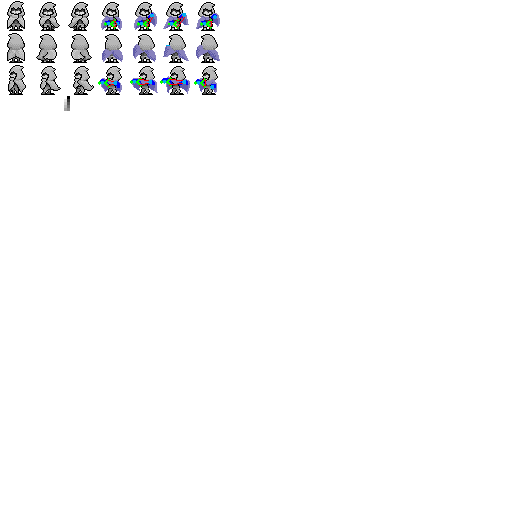
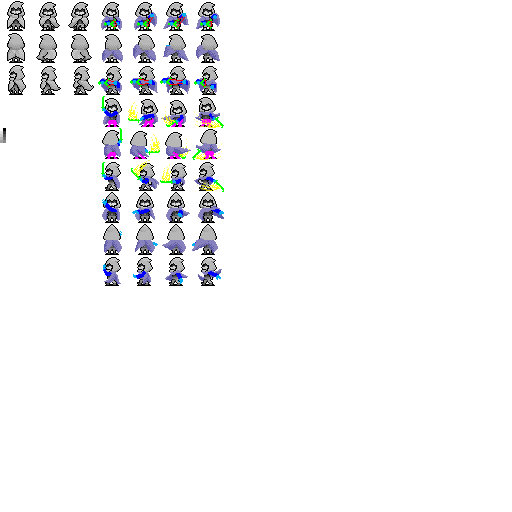
added sword animation

Changed region(s): [[0.1875, 0.1875, 0.4375, 0.5625], [0.125, 0.1875, 0.1562, 0.2188], [0.0, 0.25, 0.0312, 0.2812]]

diff --git a/js/entities/swordswing.js b/js/entities/swordswing.js
@@ -4,7 +4,7 @@ game.SwordSwing = me.Entity.extend({
 		var tipY = player.pos.y + (Math.sin(player.angle)*SWORD_DISTANCE);
 
 		var settings = {};
-		settings.image = 'slingshotstone';
+		//settings.image = 'slingshotstone';
 		settings.width = 5;
 		settings.height = 5;
 		settings.collisionType = 'PROJECTILE_OBJECT';
@@ -20,8 +20,14 @@ game.SwordSwing = me.Entity.extend({
 		this.body.addShape(new me.Rect(0, 0, settings.width, settings.height));
 		this.body.setCollisionMask(me.collision.types.ENEMY_OBJECT);
 
-		this.ttl = 150;
+		this.ttl = 100*4;
 		this.damage = 20;
+
+		this.player = player;
+
+		this.player.itemAnimation = true;
+		this.player.renderable.setCurrentAnimation('sword_'+this.player.facing);
+		this.player.renderable.setAnimationFrame(0);
 	},
 
 	update: function(dt){
@@ -30,6 +36,7 @@ game.SwordSwing = me.Entity.extend({
 		this.ttl -= dt;
 		if(this.ttl <= 0){
 			me.game.world.removeChild(this);
+			this.player.itemAnimation = false;
 		}
 	}
 });

diff --git a/js/entities/player.js b/js/entities/player.js
@@ -58,6 +58,11 @@ game.PlayerEntity = me.Entity.extend({
 		this.renderable.addAnimation('slingshot_med_left', [36]);
 		this.renderable.addAnimation('slingshot_high_left', [37]);
 		this.renderable.addAnimation('slingshot_fire_left', [38]);
+
+		this.renderable.addAnimation('sword_down', [51, 52, 53, 54], 100);
+		this.renderable.addAnimation('sword_up', [67, 68, 69, 70], 100);
+		this.renderable.addAnimation('sword_left', [83, 84, 85, 86], 100);
+
 		this.facing = undefined;
 		this.itemAnimation = false;
 

diff --git a/js/game.js b/js/game.js
@@ -42,8 +42,8 @@ var game = {
 		me.state.set(me.state.PLAY, new game.PlayScreen());
 
 		// add our player entity in the entity pool
-		me.pool.register("bat", game.BatEntity);
-		me.pool.register("guard", game.GuardEntity);
+		//me.pool.register("bat", game.BatEntity);
+		//me.pool.register("guard", game.GuardEntity);
 		me.pool.register("player", game.PlayerEntity);
 		me.pool.register("slingshotstone", game.SlingshotStoneEntity, true);
 		me.pool.register("swordswing", game.SwordSwing, true);
